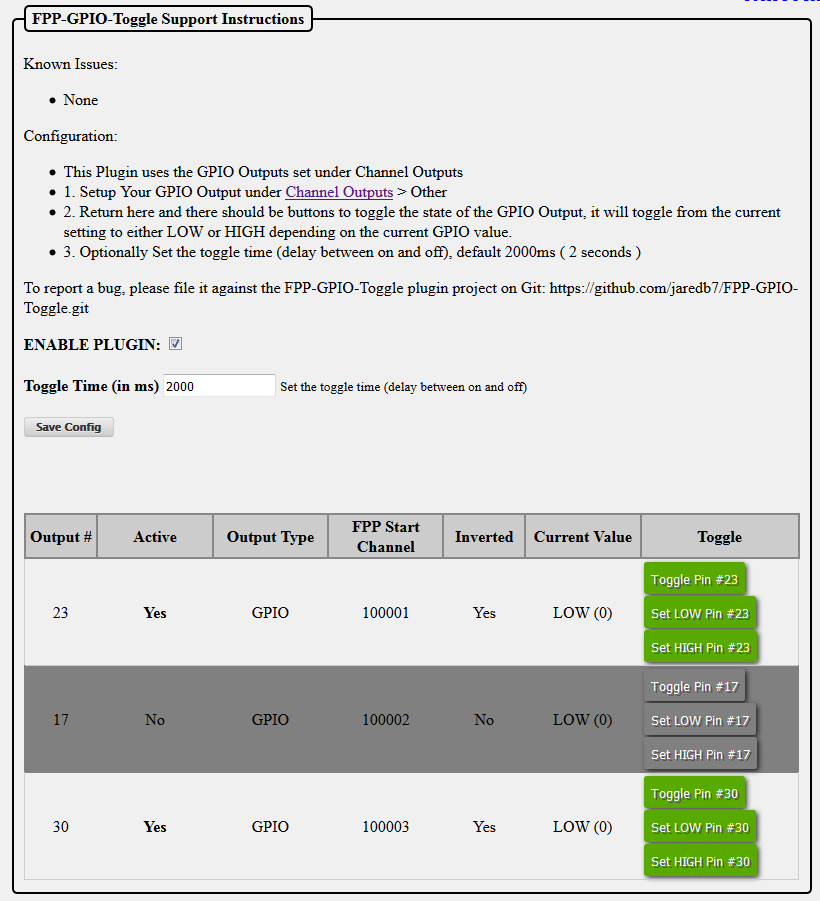
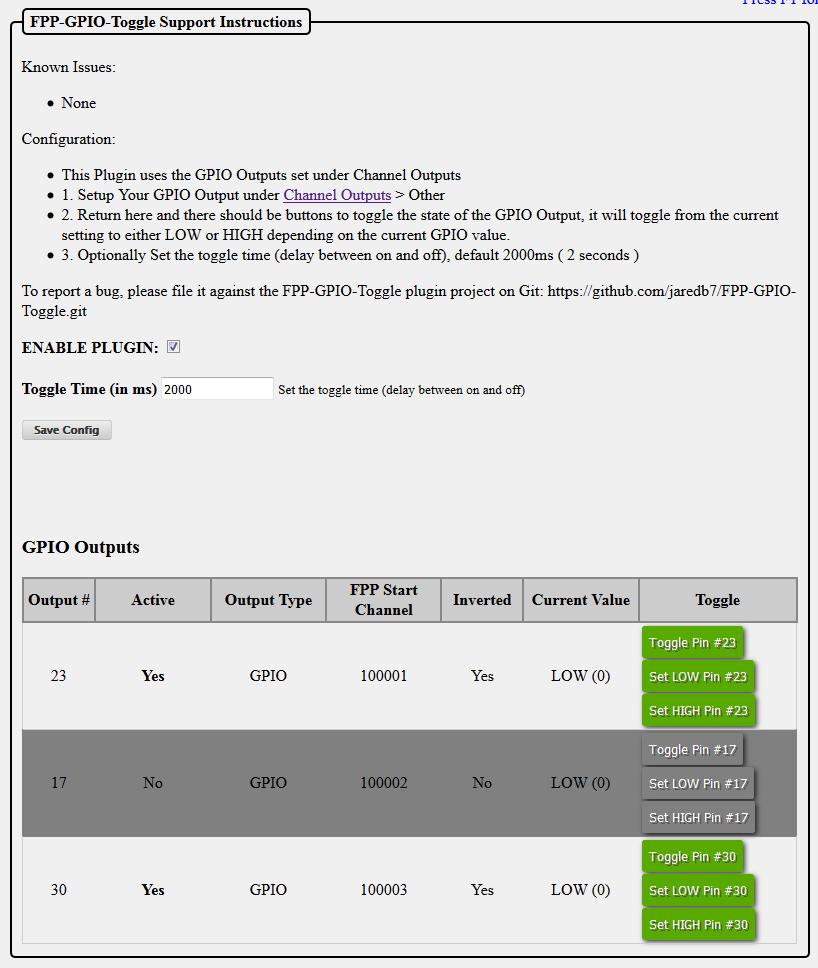
Tweaks

diff --git a/plugin_setup.php b/plugin_setup.php
@@ -167,6 +167,7 @@ if (trim($CNTRL_LOG_FILE) == "") {
         <br>
         <br>
 
+        <h3>GPIO Outputs</h3>
         <table id="tblGpioOutputs" class="channelOutputTable">
             <tr class="tblheader">
                 <td width="5%" align="left">Output #</td>

diff --git a/README.md b/README.md
@@ -4,6 +4,7 @@ This plugin allows you to toggle regular FPP GPIO Channel Outputs
     1. Setup Your GPIO Output under Channel Outputs > Other
     2. Return to Plugin page and there should be buttons to toggle the state of the GPIO Output, 
        it will toggle from the current setting to either LOW or HIGH depending on the current GPIO value
+    3. Optionally Set the toggle time (delay between on and off), default 2000ms ( 2 seconds )
 
 I created this because I had a NC relay intercepting a the trigger for 240v contactor and needed a easy way to Open and Close it so I can toggle power on that output. 
 I run a remote show (15 minutes drive) and had a issue in 2016 where I sometimes needed to power cycle an output on numerous occasions to restart all my controllers / FPP salve. 
